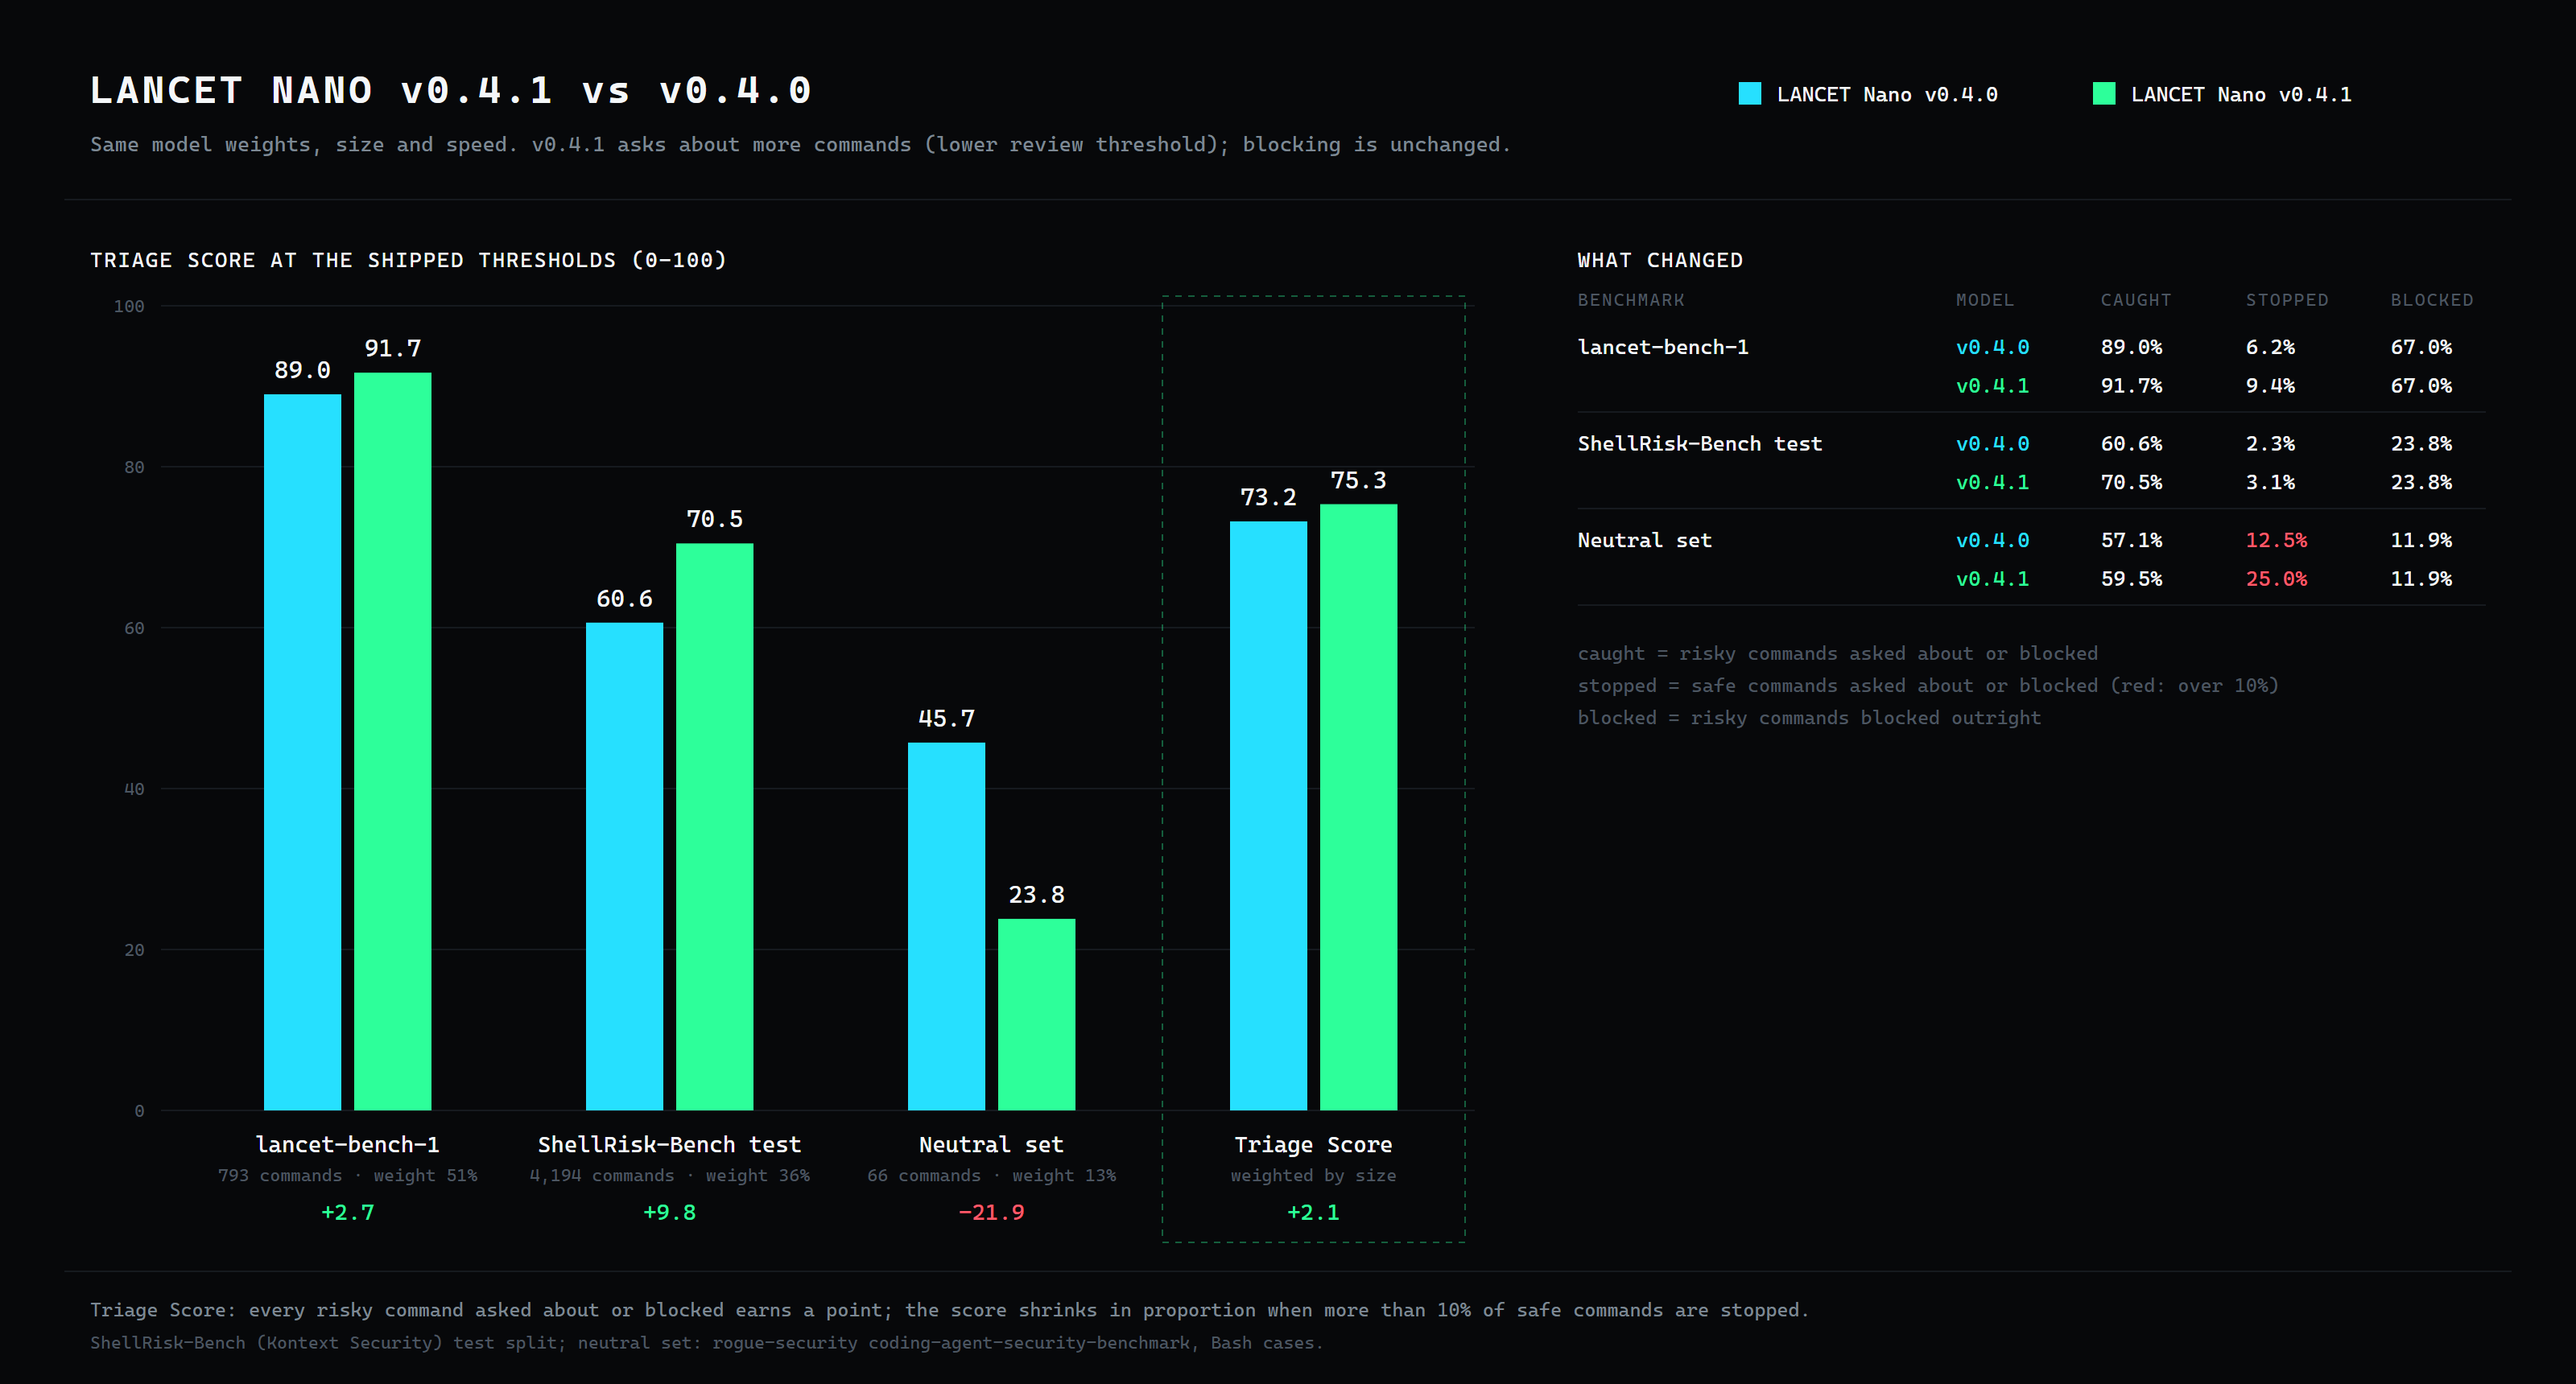
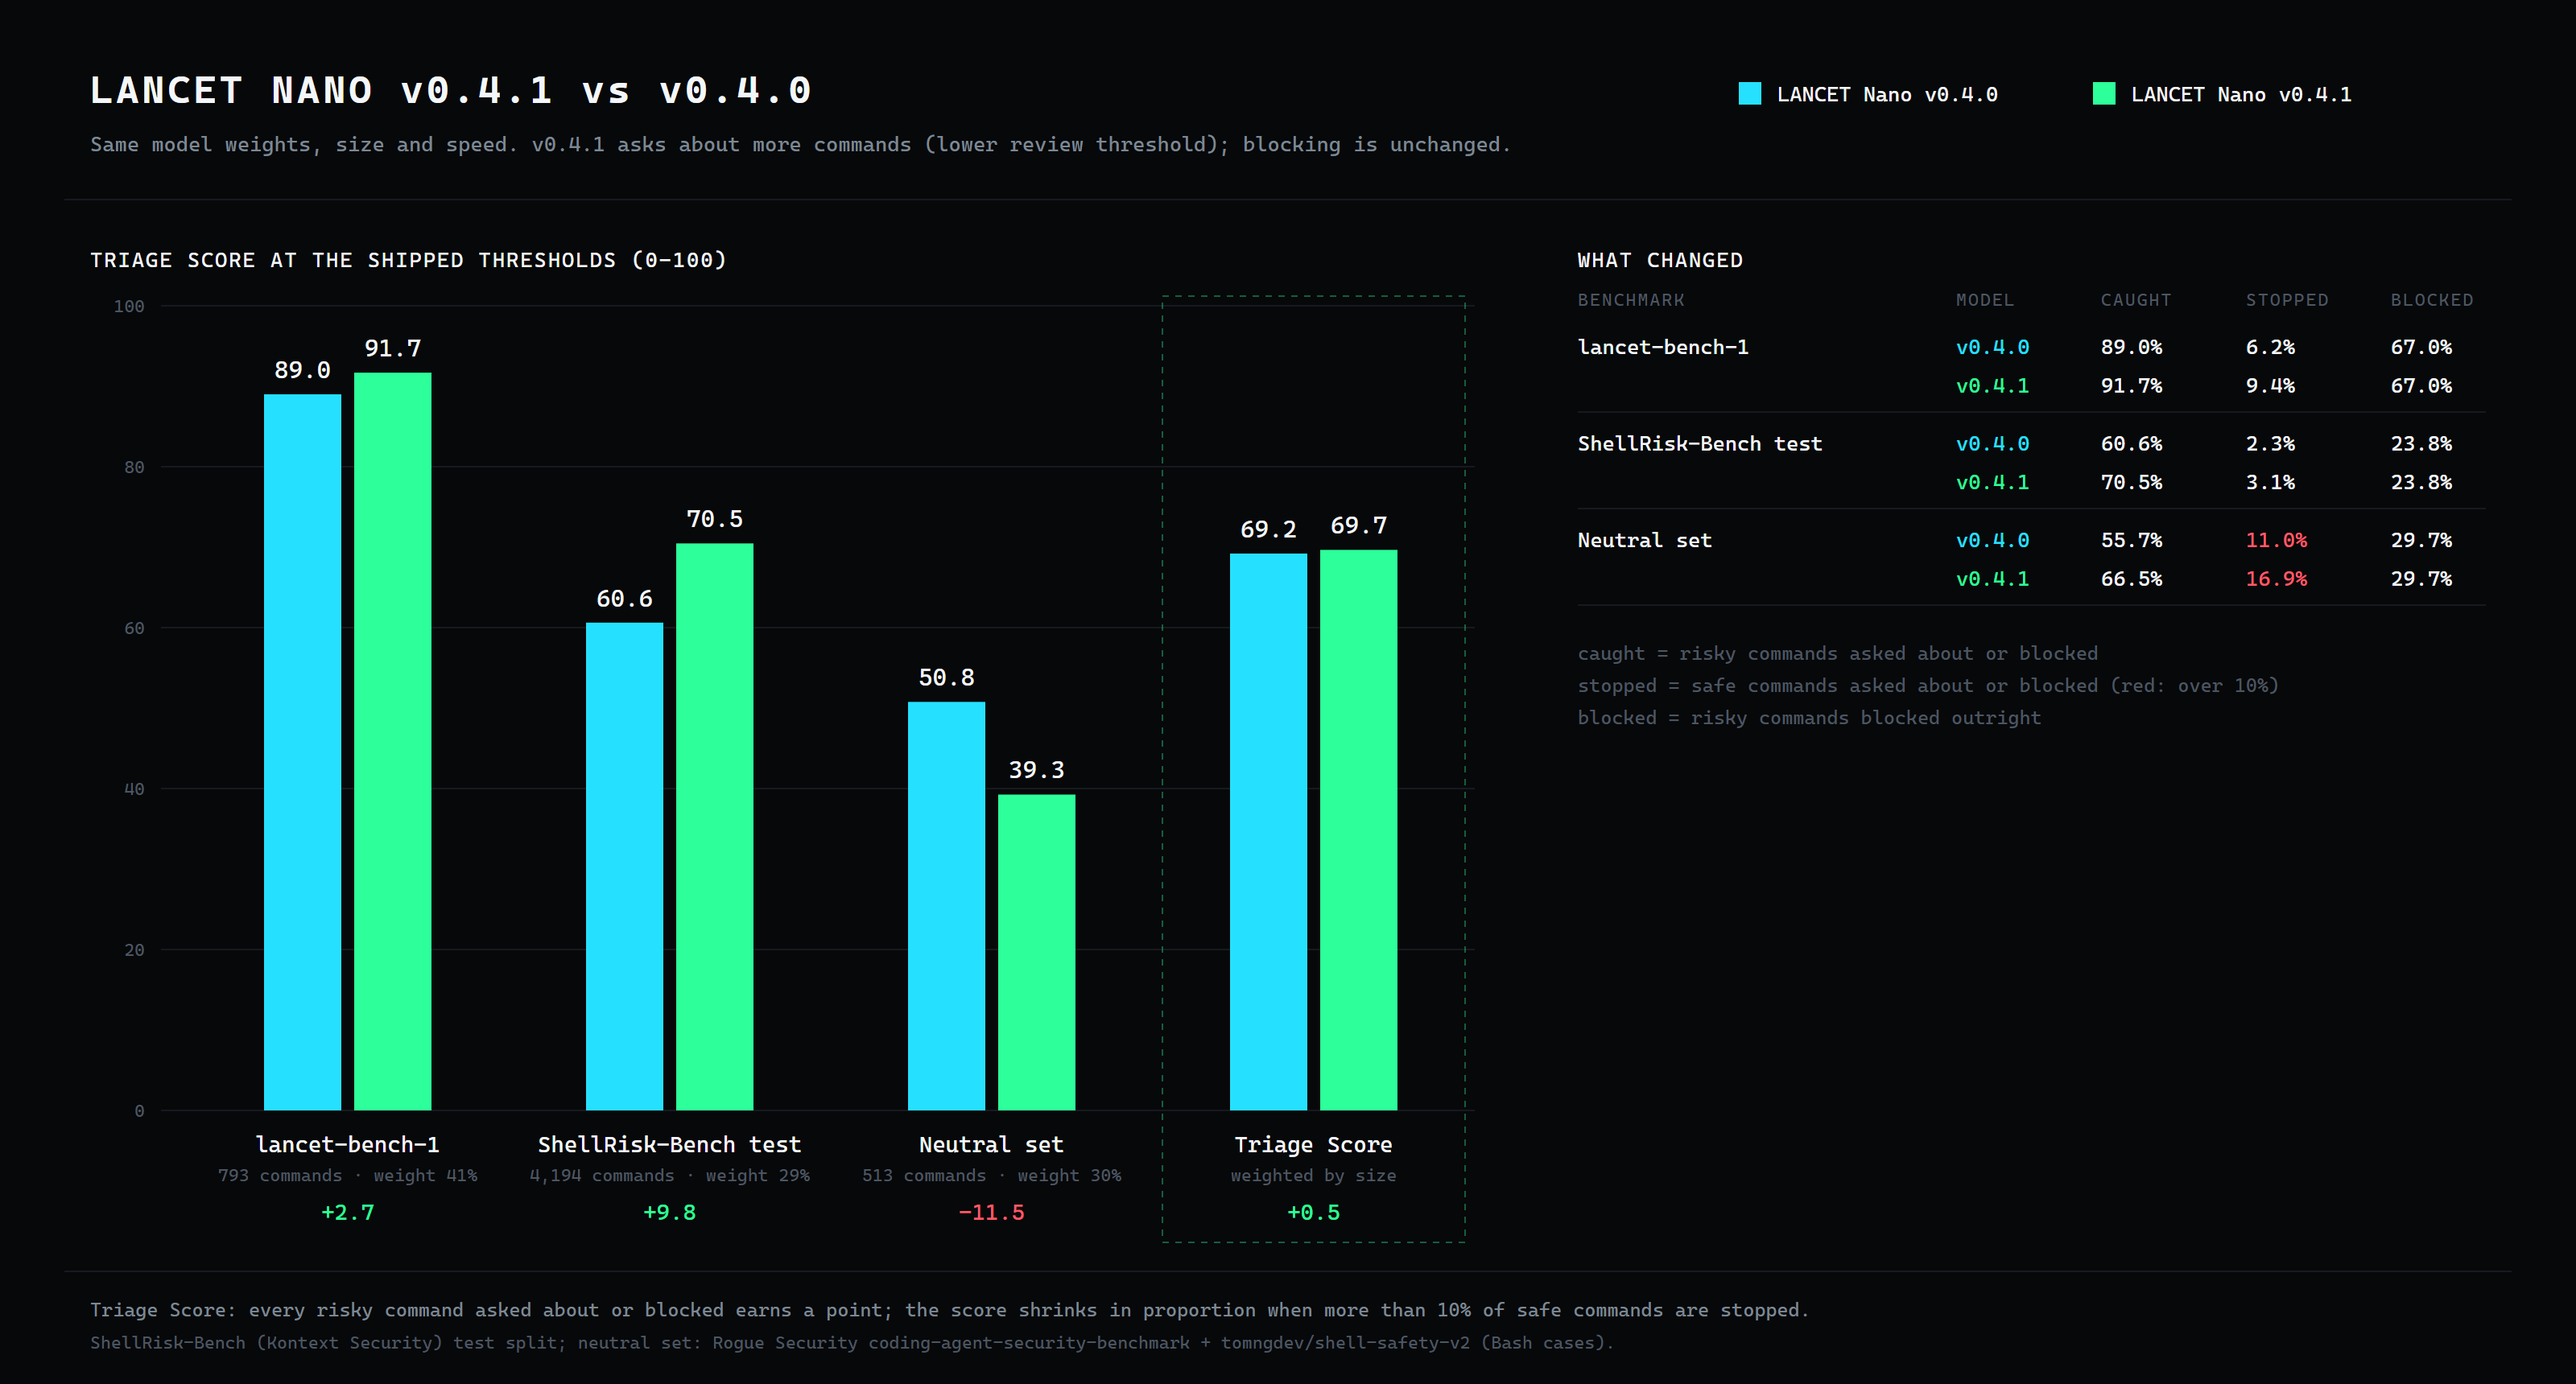
Update Triage Score for the expanded neutral set (513 commands)
Neutral set now adds tomngdev/shell-safety-v2 (447 commands, MIT) to the Rogue Security set. v0.4.1 69.7 vs v0.4.0 69.2; README, website and charts updated.

diff --git a/docs/index.html b/docs/index.html
@@ -6,7 +6,7 @@
 <title>LANCET Nano: local Bash command-risk classifier</title>
 <meta name="description" content="LANCET Nano v0.4.1: a 110M-parameter, 111 MB CPU model that flags risky Bash commands in about 14 ms, offline. Apache-2.0 model, MIT runtime.">
 <meta property="og:title" content="LANCET Nano">
-<meta property="og:description" content="A local classifier for Bash command risk. Triage Score 75.3 across three benchmarks; 91.7% of risky commands caught on a 793-command release benchmark.">
+<meta property="og:description" content="A local classifier for Bash command risk. Triage Score 69.7 across three benchmarks; 91.7% of risky commands caught on a 793-command release benchmark.">
 <meta property="og:image" content="https://tannermidd.github.io/LANCET-model/charts/social-card.png">
 <meta name="twitter:card" content="summary_large_image">
 <meta name="twitter:image" content="https://tannermidd.github.io/LANCET-model/charts/social-card.png">
@@ -72,7 +72,7 @@ footer{padding:28px 0 60px;color:var(--dim);font-size:12.5px}
     <a class="btn o" href="https://github.com/TannerMidd/LANCET-model/blob/main/bundle/MODEL_CARD.md">Model card</a>
   </div>
   <div class="stats">
-    <div class="stat"><div class="l">Triage Score</div><div class="v" style="color:var(--green)">75.3</div><div class="s">three benchmarks · v0.4.0: 73.2</div></div>
+    <div class="stat"><div class="l">Triage Score</div><div class="v" style="color:var(--green)">69.7</div><div class="s">three benchmarks · v0.4.0: 69.2</div></div>
     <div class="stat"><div class="l">Risky caught</div><div class="v" style="color:var(--green)">91.7%</div><div class="s">375 / 409 benchmark commands</div></div>
     <div class="stat"><div class="l">Safe stopped</div><div class="v">9.4%</div><div class="s">36 / 384 benchmark commands</div></div>
     <div class="stat"><div class="l">On disk</div><div class="v">111 MB</div><div class="s">110 M params · INT8 ONNX</div></div>
@@ -82,12 +82,12 @@ footer{padding:28px 0 60px;color:var(--dim);font-size:12.5px}
 
 <section id="results">
   <h2>Triage Score: command guards at their shipped settings</h2>
-  <figure class="fig"><img src="charts/triage.svg" alt="Triage Score ranking: LANCET Nano v0.4.1 75.3, v0.4.0 73.2, v0.3.0 64.0, Jev 63.5, Kestrel 43.5 and rule-based guards">
-    <figcaption>Every risky command asked about or blocked earns a point; allowed earns nothing. The score shrinks in proportion when more than 10% of safe commands are stopped. Three benchmarks (5,053 commands), weighted by size.</figcaption></figure>
+  <figure class="fig"><img src="charts/triage.svg" alt="Triage Score ranking: LANCET Nano v0.4.1 69.7, v0.4.0 69.2, v0.3.0 61.7, Jev 58.6, Kestrel 37.8 and rule-based guards">
+    <figcaption>Every risky command asked about or blocked earns a point; allowed earns nothing. The score shrinks in proportion when more than 10% of safe commands are stopped. Three benchmarks (5,500 commands), weighted by size.</figcaption></figure>
 
   <h2 style="margin-top:40px">v0.4.1 vs v0.4.0</h2>
   <figure class="fig"><img src="charts/v041-vs-v040.svg" alt="LANCET Nano v0.4.1 vs v0.4.0: Triage Score per benchmark and caught, stopped and blocked rates">
-    <figcaption>Same weights. v0.4.1 lowers the review threshold: it asks about more commands and catches more, and blocks exactly as v0.4.0 does. ShellRisk-Bench (Kontext Security) test split; neutral set: the rogue-security coding-agent-security-benchmark's Bash cases.</figcaption></figure>
+    <figcaption>Same weights. v0.4.1 lowers the review threshold: it asks about more commands and catches more, and blocks exactly as v0.4.0 does. Its lead is small: it stops more safe commands on the neutral set (16.9% vs 11.0%). ShellRisk-Bench (Kontext Security) test split; neutral set: 513 Bash commands from the Rogue Security coding-agent-security-benchmark and tomngdev/shell-safety-v2.</figcaption></figure>
 
   <h2 style="margin-top:40px">Results on the 793-command release benchmark</h2>
   <figure class="fig"><img src="charts/bench1-operating-points.svg" alt="Risky commands caught against safe commands wrongly stopped for LANCET Nano v0.4.1, v0.4.0, v0.3.0, v0.2.0, v0.1.0, Jev and Laya">

diff --git a/README.md b/README.md
@@ -13,15 +13,15 @@
 
 **Model: Apache-2.0. Runtime: MIT.** You may use, modify and redistribute it, including commercially, under the respective terms. Training data is not included or relicensed.
 
-<p align="center"><img src="docs/charts/triage.png" alt="Triage Score: LANCET Nano v0.4.1 75.3, v0.4.0 73.2, v0.3.0 64.0, Jev 63.5, Kestrel 43.5 and other command guards, each at its shipped setting across 5,053 commands from three benchmarks" width="100%"></p>
+<p align="center"><img src="docs/charts/triage.png" alt="Triage Score: LANCET Nano v0.4.1 69.7, v0.4.0 69.2, v0.3.0 61.7, Jev 58.6, Kestrel 37.8 and other command guards, each at its shipped setting across 5,500 commands from three benchmarks" width="100%"></p>
 
 ## What's new in v0.4.1
 
 - **Same model, catches more.** v0.4.1 keeps v0.4.0's weights and lowers the `review` threshold, so it asks about more borderline commands. It never blocks more than v0.4.0.
-- **Triage Score 75.3** (v0.4.0: 73.2). Every risky command asked about or blocked earns a point; the score shrinks when more than 10% of safe commands are stopped. Three benchmarks, weighted by size.
+- **Triage Score 69.7** (v0.4.0: 69.2), a small lead. Every risky command asked about or blocked earns a point; the score shrinks when more than 10% of safe commands are stopped. Three benchmarks (5,500 commands), weighted by size.
 - **ShellRisk-Bench test split:** 70.5% of risky commands caught (v0.4.0: 60.6%), with 3.1% of safe commands stopped (2.3%).
 - **Release benchmark:** 91.7% caught (89.0%), 9.4% of safe commands stopped (6.2%).
-- **Trade-off:** more `review` prompts. On the small neutral third-party set, 6 of 24 safe commands are asked about (v0.4.0: 3).
+- **Trade-off:** more `review` prompts. On the 513-command neutral third-party set it catches 66.5% of risky commands (v0.4.0: 55.7%) but stops 16.9% of safe ones (11.0%), over the 10% line, so most of its gain elsewhere is given back there.
 
 <p align="center"><img src="docs/charts/v041-vs-v040.png" alt="LANCET Nano v0.4.1 vs v0.4.0: Triage Score on lancet-bench-1, ShellRisk-Bench and a neutral third-party set, plus caught, stopped and blocked rates" width="100%"></p>
 
